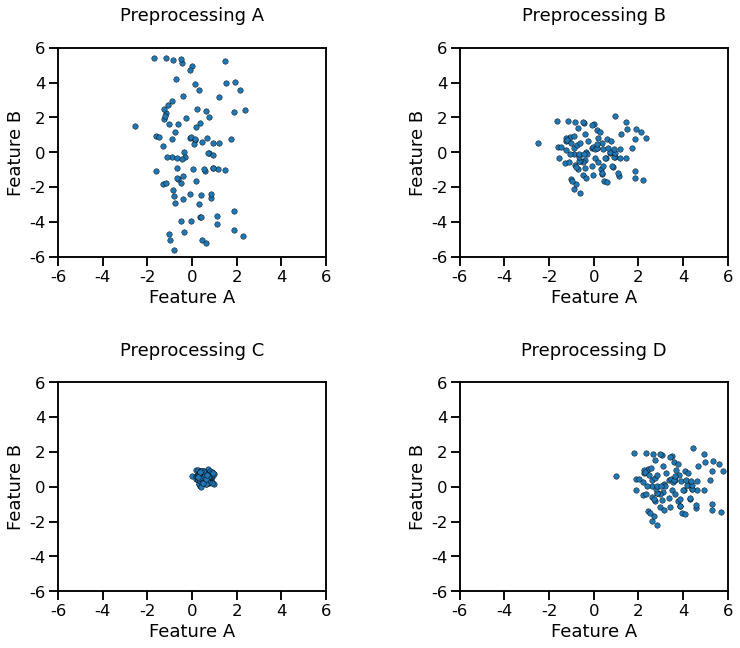
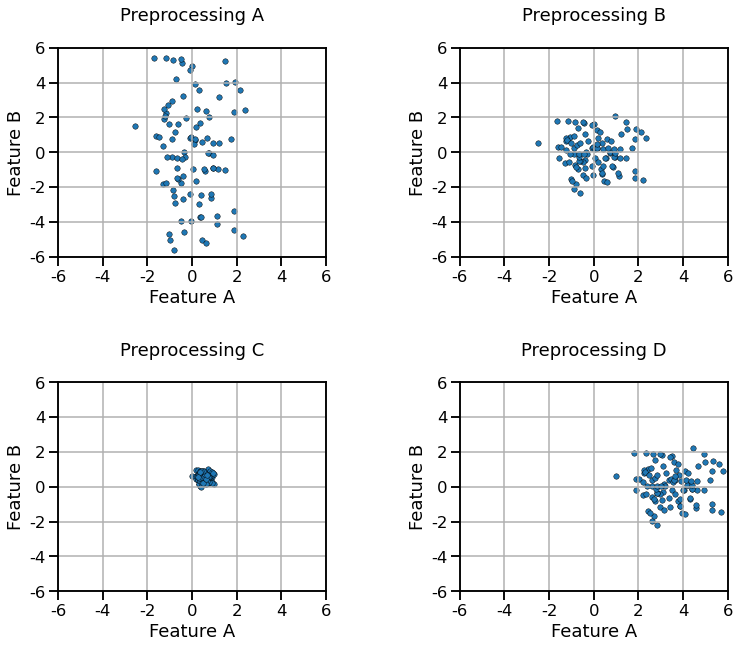
Add grid

diff --git a/figures/numerical_pipeline_quiz_scaler.py b/figures/numerical_pipeline_quiz_scaler.py
@@ -30,6 +30,7 @@ ax.set_xticklabels(ticks)
 ax.xaxis.set_major_locator(ticker.FixedLocator(ticks))
 ax.set_yticklabels(ticks)
 ax.yaxis.set_major_locator(ticker.FixedLocator(ticks))
+ax.grid(visible=True)
 ax.set_title("Original dataset\n", loc="center")
 plt.savefig("numerical_pipeline_quiz_scaler_original.png", bbox_inches="tight")
 
@@ -66,6 +67,7 @@ for idx, (ax, data) in enumerate(
     ax.xaxis.set_major_locator(ticker.FixedLocator(ticks))
     ax.set_yticklabels(ticks)
     ax.yaxis.set_major_locator(ticker.FixedLocator(ticks))
+    ax.grid(visible=True)
     ax.set_title(f"Preprocessing {'ABCD'[idx]}\n")
 
 fig.subplots_adjust(hspace=0.6, wspace=0.5)
